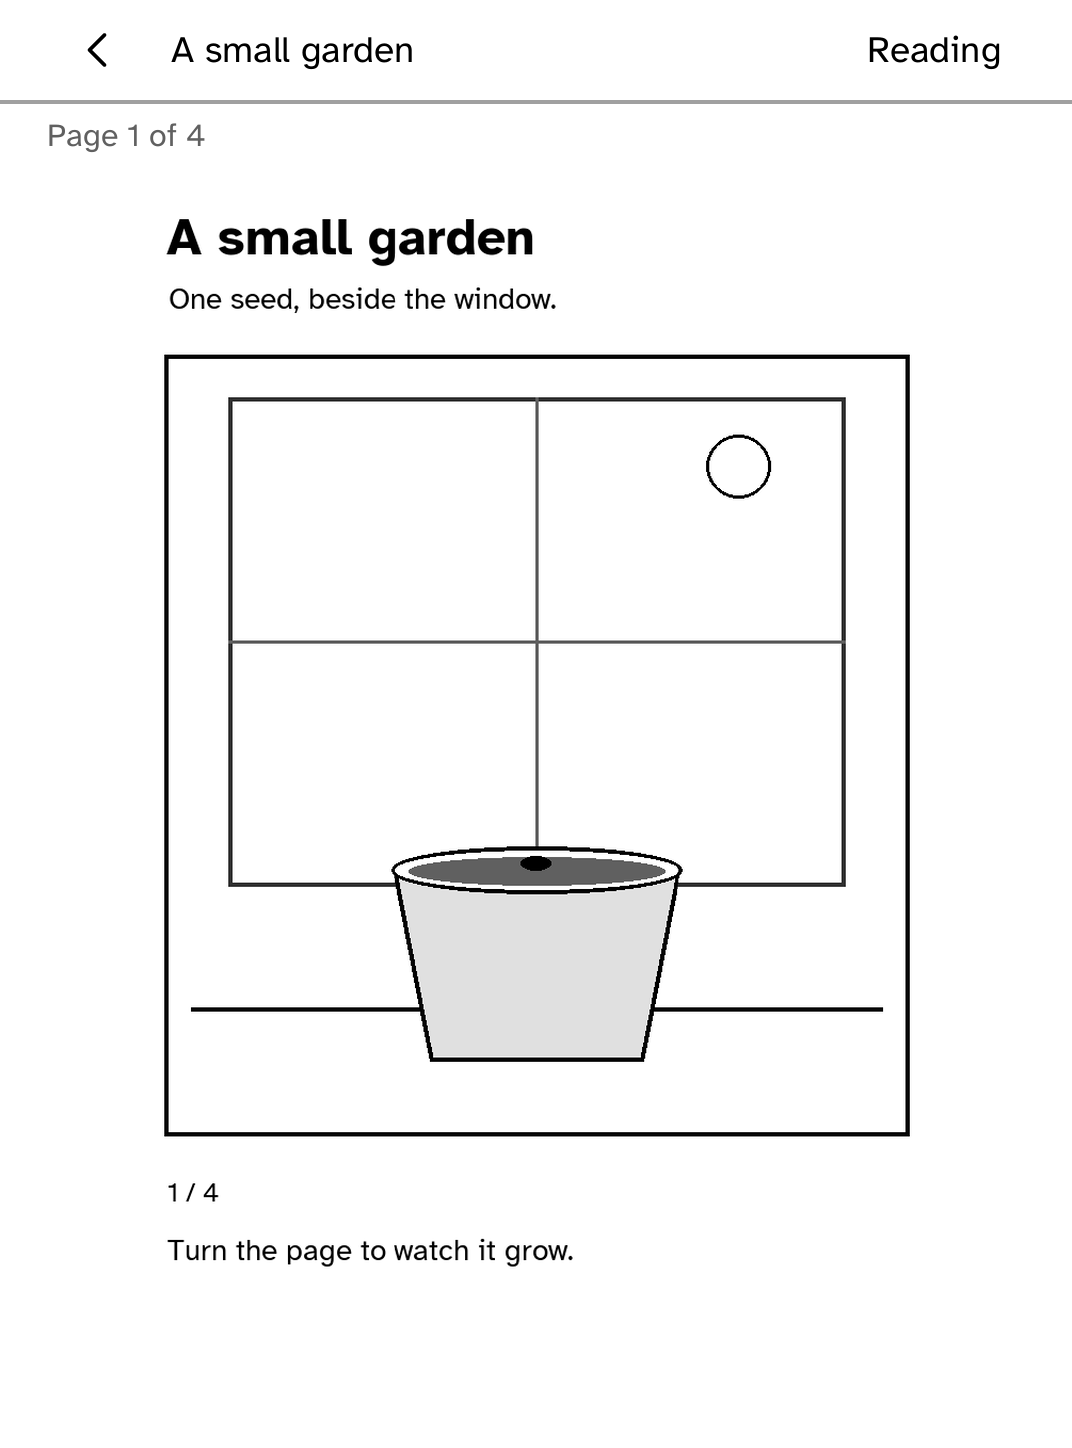
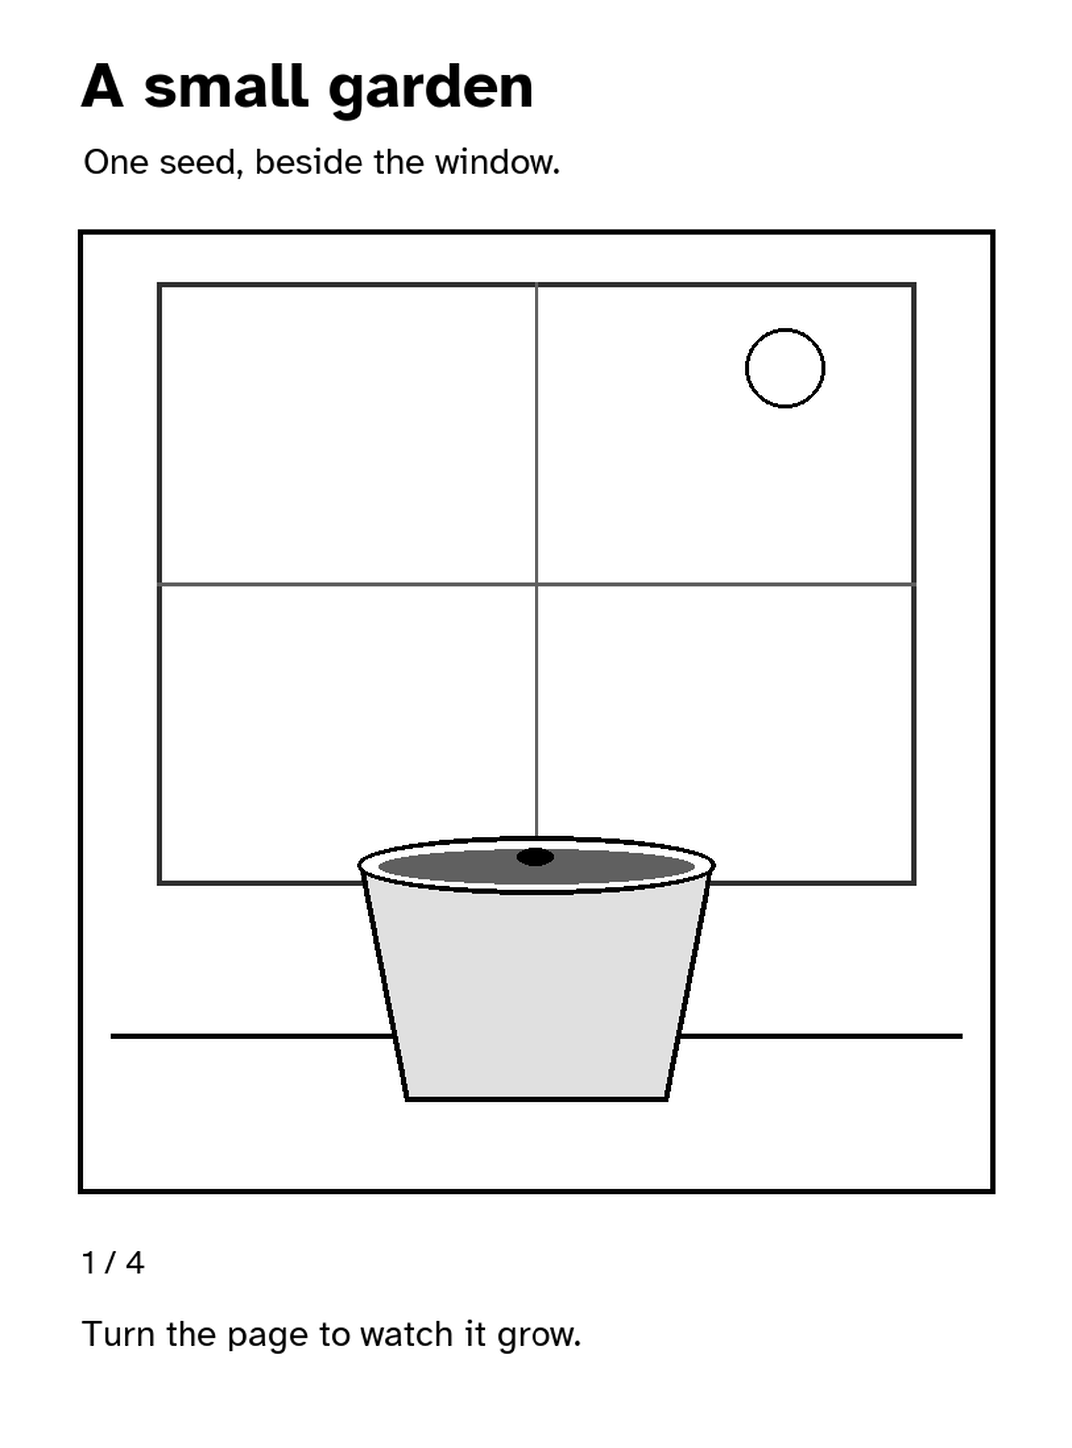
Open comic pages with the panel to themselves

diff --git a/docs/apps/panels/index.html b/docs/apps/panels/index.html
@@ -21,7 +21,7 @@
 <meta name="twitter:description" content="Read CBZ comics on your Kobo with zoom, spreads and right-to-left reading. Add comics over USB or download them from your Komga library. Install it on a supported Kobo e-reader with Cobalt.">
 <meta name="twitter:image" content="https://bandarlabs.github.io/Cobalt/media/site/apps/panels.png">
 <meta name="twitter:image:alt" content="The Panels comic shelf with a cover and saved progress, page 2 of 4.">
-<meta http-equiv="Content-Security-Policy" content="default-src 'none'; script-src 'self' 'sha256-eZWrq4Ba5kRlShavhG07LvpfnIjKxwHoVUxmLmvLJ00='; style-src 'self'; img-src 'self'; connect-src https://cobalt-install-relay.anandabhishek.workers.dev; base-uri 'none'; form-action 'self'">
+<meta http-equiv="Content-Security-Policy" content="default-src 'none'; script-src 'self' 'sha256-wDzB5kvTzrjqVrUFvrWtFuf3AGB/jS91f3bWPm10JUI='; style-src 'self'; img-src 'self'; connect-src https://cobalt-install-relay.anandabhishek.workers.dev; base-uri 'none'; form-action 'self'">
 <script type="application/ld+json">{
   "@context": "https://schema.org",
   "@graph": [
@@ -40,7 +40,7 @@
       "applicationSuite": "Cobalt",
       "applicationCategory": "ReferenceApplication",
       "operatingSystem": "Cobalt on supported Kobo e-readers",
-      "softwareVersion": "0.1.9",
+      "softwareVersion": "0.1.10",
       "isAccessibleForFree": true,
       "offers": {
         "@type": "Offer",
@@ -99,7 +99,7 @@
       <h1>Panels</h1>
       <p class="summary">Read CBZ comics on your Kobo with zoom, spreads and right-to-left reading. Add comics over USB or download them from your Komga library.</p>
       <dl class="facts">
-        <div><dt>Version</dt><dd>0.1.9</dd></div>
+        <div><dt>Version</dt><dd>0.1.10</dd></div>
         <div><dt>Permissions</dt><dd>network</dd></div>
         <div><dt>Requires</dt><dd>Cobalt 0.3.32</dd></div>
       </dl>
@@ -119,8 +119,8 @@
     </div>
   </section>
   <section class="whats-new">
-    <h2>New in 0.1.9</h2>
-    <p>Headings are a step smaller, small print such as hints and dates a step larger, and there is more room under the top bar.</p>
+    <h2>New in 0.1.10</h2>
+    <p>A comic page has the panel to itself: no clock, bar or page count over the art. Tap the middle for the reading controls, which now say the page, or the top edge for the bar.</p>
   </section>
   <section class="panel prerequisites" aria-labelledby="prerequisites-title">
     <p class="eyebrow">App setup</p>

diff --git a/crates/kobo-comic/src/reader.rs b/crates/kobo-comic/src/reader.rs
@@ -29,7 +29,9 @@ impl Memory {
             page: 0,
             right_to_left: comic.metadata.right_to_left.unwrap_or(false),
             spreads: false,
-            full_page: false,
+            // The art has the panel unless the reader asks for the bar, as a
+            // book's pages do.
+            full_page: true,
             viewport: Viewport::default(),
         }
     }
@@ -104,7 +106,7 @@ impl Memory {
             page: 0,
             right_to_left: false,
             spreads: false,
-            full_page: false,
+            full_page: true,
             viewport: Viewport::default(),
         };
         Ok(Self::decode_saved(bytes, &default)?.map(|(memory, _)| memory.page.min(pages - 1)))
@@ -176,7 +178,7 @@ impl Memory {
                 // missing key as a record it cannot understand, so requiring
                 // it here would lose the reader's place in every comic they
                 // had open.
-                full_page: value.get("full").and_then(Value::as_bool).unwrap_or(false),
+                full_page: value.get("full").and_then(Value::as_bool).unwrap_or(true),
                 viewport: Viewport::new(
                     fit,
                     u16::try_from(zoom).map_err(|_| "Invalid zoom.")?,
@@ -356,7 +358,7 @@ mod summary_tests {
         let mut memory = Memory::new(&comic);
         memory.page = 1;
         let saved = String::from_utf8(memory.encode(&comic).unwrap()).unwrap();
-        let older = saved.replace("\"full\":false,", "");
+        let older = saved.replace("\"full\":true,", "");
         assert!(
             !older.contains("\"full\""),
             "the fixture must be a record from before the setting existed"
@@ -365,15 +367,15 @@ mod summary_tests {
             .expect("an older record still opens")
             .expect("and carries its page");
         assert_eq!(restored.page, 1, "the reader keeps their place");
-        assert!(!restored.full_page, "and the setting starts off");
+        assert!(restored.full_page, "and the page has the panel");
 
-        // A record written now carries it, and carries it back.
-        memory.full_page = true;
+        // A record written now carries the choice, and carries it back.
+        memory.full_page = false;
         let bytes = memory.encode(&comic).unwrap();
         let (restored, _) = Memory::decode_saved(Some(&bytes), &memory)
             .unwrap()
             .unwrap();
-        assert!(restored.full_page);
+        assert!(!restored.full_page);
     }
 
     #[test]

diff --git a/crates/kobo-bookview/src/comic.rs b/crates/kobo-bookview/src/comic.rs
@@ -151,7 +151,8 @@ impl ComicView {
         self.previews.clear();
     }
 
-    fn page_header(&self) -> ScreenBuilder {
+    /// Where the reader is, and whether that has been kept.
+    fn position(&self) -> String {
         let visible = self.reader.visible_pages(self.target_without_header());
         let position = if visible.len() == 2 {
             format!(
@@ -167,17 +168,28 @@ impl ComicView {
                 self.reader.comic().pages.len()
             )
         };
-        let position = match self.save_state {
+        match self.save_state {
             SaveState::Saved => position,
             SaveState::Pending => format!("{position} · Saving"),
             SaveState::Failed => format!("{position} · Position not saved"),
-        };
-        ScreenBuilder::new("comic-page")
+        }
+    }
+
+    fn page_header(&self) -> ScreenBuilder {
+        let screen = ScreenBuilder::new("comic-page")
             .top_bar(&self.title)
             .top_bar_action("comic-controls", "Reading")
             .reading(true)
-            .owns_back(true)
-            .secondary(position)
+            .owns_back(true);
+        // On a page that has the panel the position moves to the controls,
+        // a tap in the middle away: a caption above the art pushed it down
+        // the panel. A position that could not be saved is still said here,
+        // because that is something the reader needs to know unasked.
+        if self.full_page() && self.save_state != SaveState::Failed {
+            screen
+        } else {
+            screen.secondary(self.position())
+        }
     }
     fn target_without_header(&self) -> (u32, u32) {
         (
@@ -266,6 +278,7 @@ impl ComicView {
                 };
                 screen
                     .page_turns(previous, next)
+                    .reading_menu("comic-controls")
                     .build()
                     .with_auto_hidden_top_bar(self.full_page())
             }
@@ -275,7 +288,8 @@ impl ComicView {
                     .top_bar("Reading")
                     .owns_back(true)
                     .secondary(format!(
-                        "{} · {}%",
+                        "{} · {} · {}%",
+                        self.position(),
                         if memory.viewport.fit == Fit::Page {
                             "Fit page"
                         } else {

diff --git a/apps/panels/screenshots/README.md b/apps/panels/screenshots/README.md
@@ -7,7 +7,7 @@ captures. No live Komga service or account appears in them.
 | Image | What it shows |
 | --- | --- |
 | library.png | The bundled sample comic on the shelf, saved at page 2 of 4 |
-| reader.png | Page 1 of the sample comic |
+| reader.png | Page 1 of the sample comic, with the panel to itself |
 | download-recovery.png | A completed download checkpoint, recovered offline |
 | import-guide.png | The folder step of the USB guide |
 
